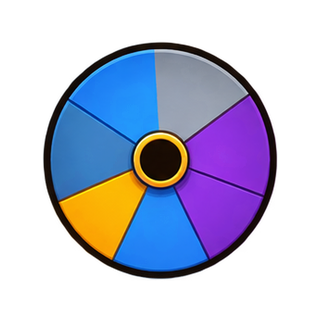
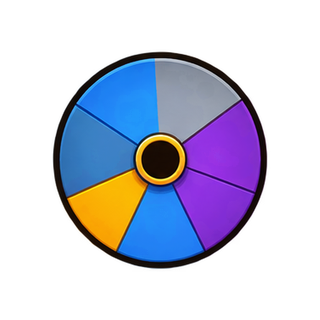
fix: tela do giro cabe no celular; roleta embaixo e cartões altos; sorteio nunca trava

diff --git a/docs/pendencias.md b/docs/pendencias.md
@@ -20,6 +20,15 @@ Arestas que as revisões e os testes acharam e que não bloquearam o merge da fa
 - **Porta com espinhos:** sem teste Lune da recusa do toggle nem do dono ignorado (código de serviço).
 - **Bancada das estruturas:** cópia de atributo repetida (`structure-bench.luau` ~linhas 275-277); sem aviso para template com `PrimaryPart`; `difference()` compara por índice (falha para o lado seguro).
 
+## Loja (UI 2, 04/11)
+
+- **Fechar a loja no meio de um giro perde o giro:** pela tela não dá (o X fica travado e a tela do giro cobre o voltar), mas se a loja fechar por outro motivo o contador já desceu e não sai prêmio (`SpinScreen`, reset ao fechar).
+- **Relógio do destaque roda a sessão toda:** uma volta por segundo, também durante o jogo (não vaza; para quando o menu desmonta). Ideal: só contar com a loja aberta (`Featured`).
+- **Roletas giram com a loja aberta mesmo fora da tela:** o spec pedia só com a seção visível (`SpinTypes`).
+- **Tamanho do quadradinho do carrossel fixo ao abrir o giro:** girar o celular (entrar/sair do compacto) com a tela aberta deixa o tamanho antigo (`SpinScreen`).
+- **Efeitos com posição tirada uma vez:** se a tela mudar de tamanho durante o giro pago, os raios e a tremida usam a posição antiga (`SpinFx`).
+- **Aviso de compra simulada no celular cobre o carrossel por 2,5 s** (posição vem do `MenuLayout`).
+
 ## Carregamento, menu e kits (UI 1, 04/11)
 
 - **Tela mínima com interface no máximo:** em 568x320 com o tamanho da interface em 1,25 (tela lógica 454x256), os pods do topo (mínimo 200) encostam no logo e a linha Kits/JOGAR fica 12 px mais larga que a área do boneco. Ideal: deixar o pod encolher ou esconder o logo quando não couber (`MenuLayout`, `MenuShell`).
